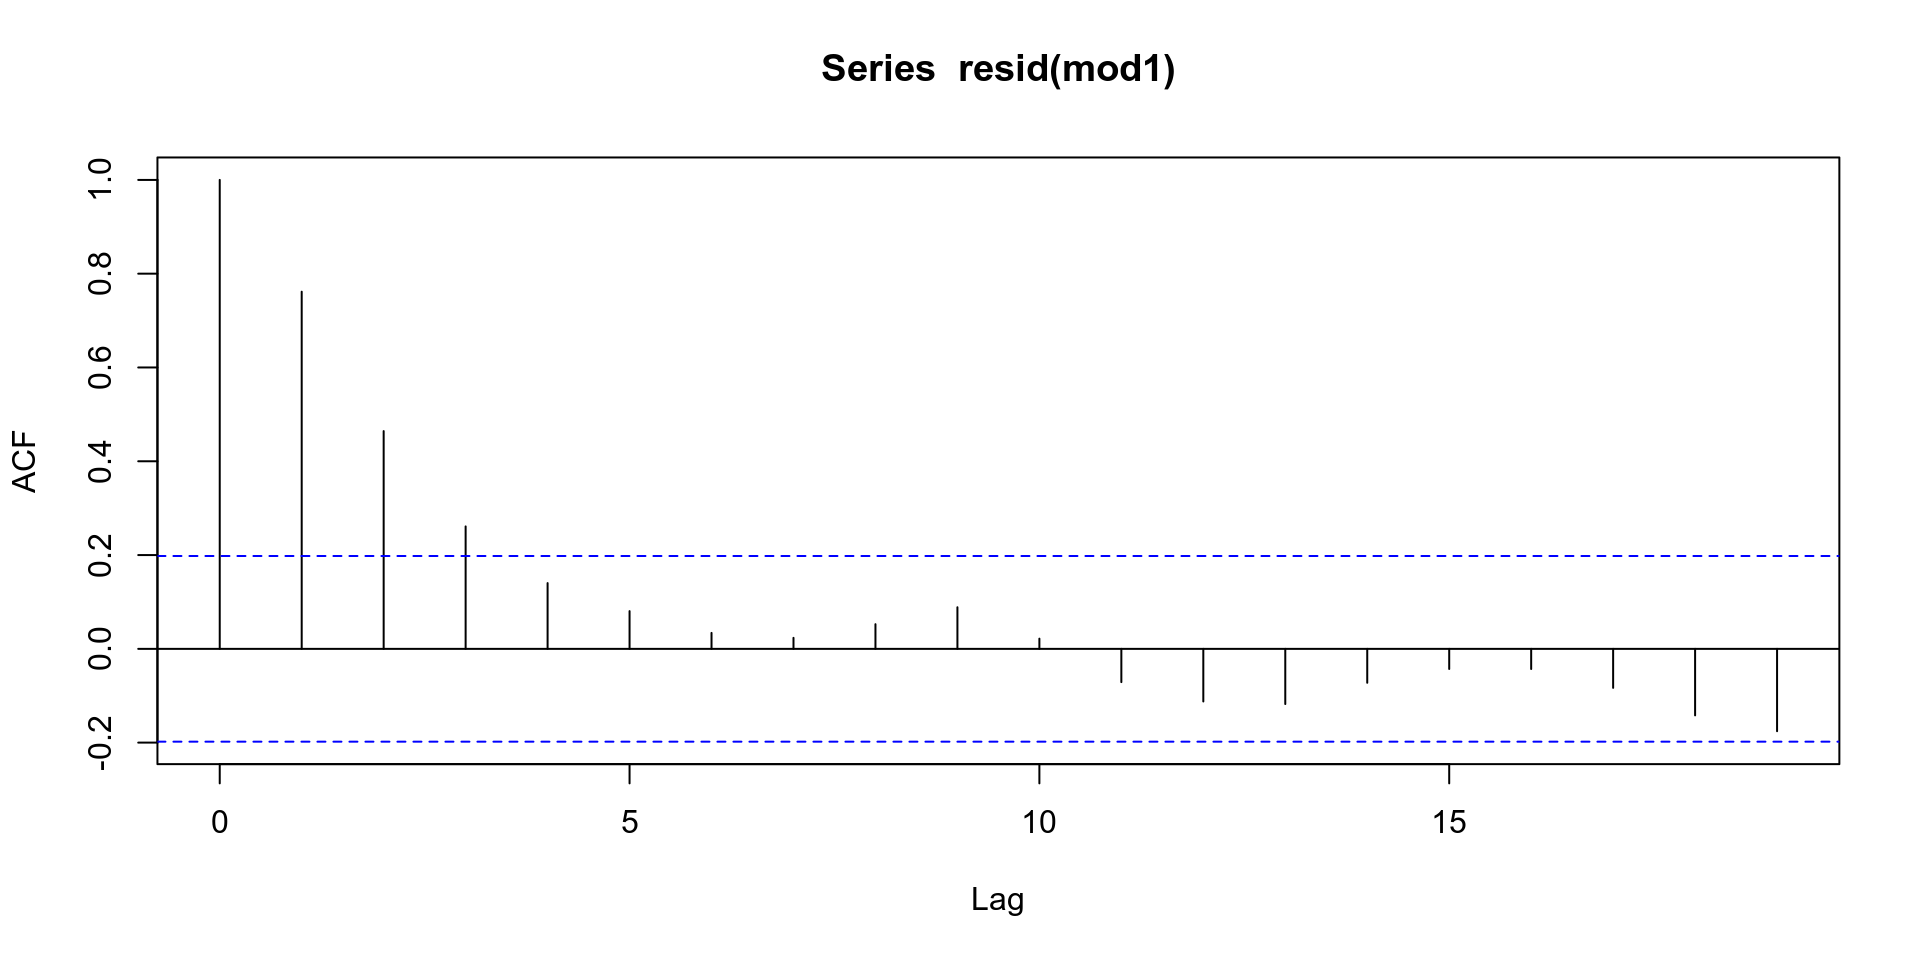
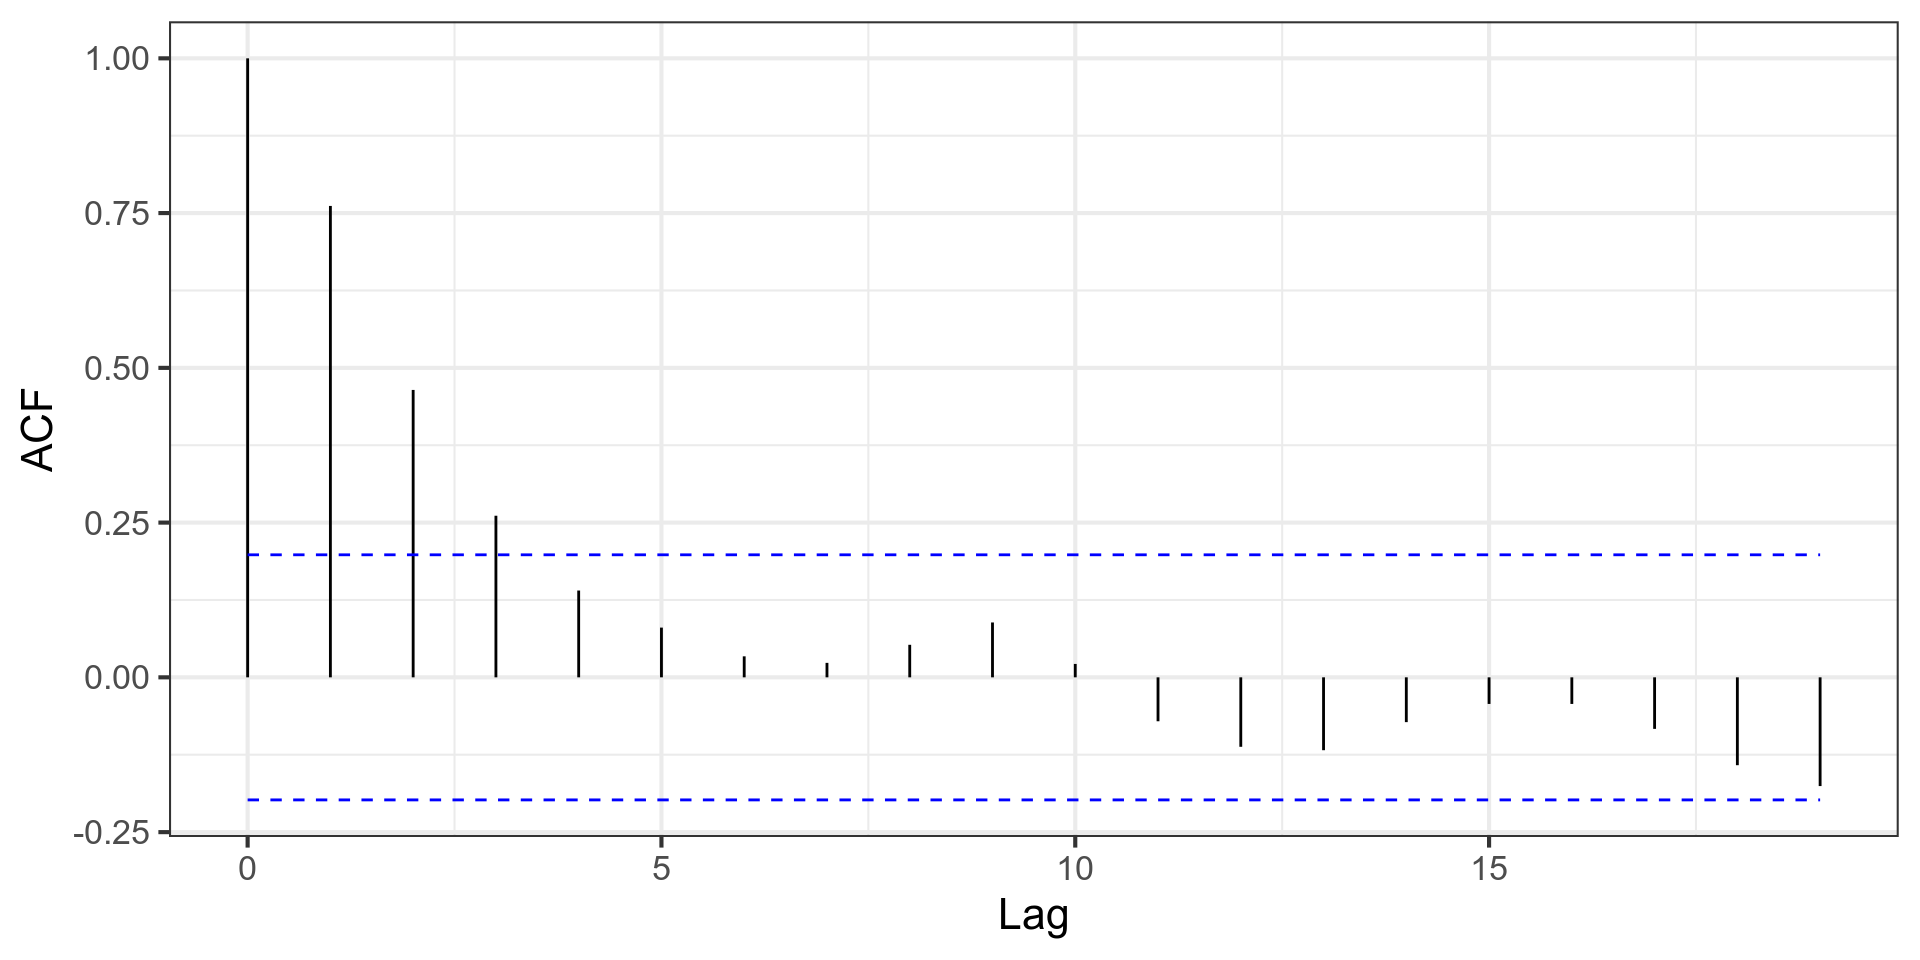
improves autocorrelation

diff --git a/spatial_temporal.html b/spatial_temporal.html
@@ -513,7 +513,9 @@ index        -0.02420111 0.004036108 -5.996151 3.545230e-08</code></pre>
 <p>-ve autocorrelation - ACF oscillates, exponential decline in magnitude</p>
 </div><div class="column" style="width:40%;">
 <div class="cell">
-<div class="sourceCode cell-code" id="cb7"><pre class="sourceCode numberSource r number-lines code-with-copy"><code class="sourceCode r"><span id="cb7-1"><a href="#cb7-1"></a><span class="fu">acf</span>(<span class="fu">resid</span>(mod1))</span></code><button title="Copy to Clipboard" class="code-copy-button"><i class="bi"></i></button></pre></div>
+<div class="sourceCode cell-code" id="cb7"><pre class="sourceCode numberSource r number-lines code-with-copy"><code class="sourceCode r"><span id="cb7-1"><a href="#cb7-1"></a><span class="fu">library</span>(ggfortify)</span>
+<span id="cb7-2"><a href="#cb7-2"></a><span class="fu">acf</span>(<span class="fu">resid</span>(mod1), <span class="at">plot =</span> <span class="cn">FALSE</span>) <span class="sc">|&gt;</span> </span>
+<span id="cb7-3"><a href="#cb7-3"></a>  <span class="fu">autoplot</span>()</span></code><button title="Copy to Clipboard" class="code-copy-button"><i class="bi"></i></button></pre></div>
 <div class="cell-output-display">
 <p><img data-src="spatial_temporal_files/figure-revealjs/acf-fig2-1.png" width="960"></p>
 </div>
@@ -531,7 +533,8 @@ index        -0.02420111 0.004036108 -5.996151 3.545230e-08</code></pre>
 <p>Autoregressive processes will have spikes in the PACF. Number of significant spikes indicate the order</p>
 </div><div class="column" style="width:45%;">
 <div class="cell">
-<div class="sourceCode cell-code" id="cb8"><pre class="sourceCode numberSource r number-lines code-with-copy"><code class="sourceCode r"><span id="cb8-1"><a href="#cb8-1"></a><span class="fu">pacf</span>(<span class="fu">resid</span>(mod1))</span></code><button title="Copy to Clipboard" class="code-copy-button"><i class="bi"></i></button></pre></div>
+<div class="sourceCode cell-code" id="cb8"><pre class="sourceCode numberSource r number-lines code-with-copy"><code class="sourceCode r"><span id="cb8-1"><a href="#cb8-1"></a><span class="fu">pacf</span>(<span class="fu">resid</span>(mod1), <span class="at">plot =</span> <span class="cn">FALSE</span>) <span class="sc">|&gt;</span> </span>
+<span id="cb8-2"><a href="#cb8-2"></a>  <span class="fu">autoplot</span>()</span></code><button title="Copy to Clipboard" class="code-copy-button"><i class="bi"></i></button></pre></div>
 <div class="cell-output-display">
 <p><img data-src="spatial_temporal_files/figure-revealjs/pacf-fig-1.png" width="960"></p>
 </div>
@@ -539,18 +542,59 @@ index        -0.02420111 0.004036108 -5.996151 3.545230e-08</code></pre>
 </div>
 </div>
 </section>
-<section id="identifiying-the-autocorrelation-process" class="slide level2">
-<h2>Identifiying the autocorrelation process</h2>
-<p>Non-stationary series have an ACF that remains significant at many lags, rather than quickly declining to zero.</p>
-<p>Autoregressive processes have an exponentially declining ACF and spikes in the first one or more lags of the PACF. Number of spikes indicates the order of the autoregression.</p>
-<p>Moving average processes have spikes in the first one or more lags of the ACF and an exponentially declining PACF. Number of spikes indicates the order of the moving average.</p>
-<p>Mixed (ARMA) processes typically show exponential declines in both the ACF and the PACF.</p>
+<section id="which-autocorrelation-process" class="slide level2">
+<h2>Which autocorrelation process?</h2>
+<h3 id="non-stationary-series">Non-stationary series</h3>
+<div class="cell">
+<div class="sourceCode cell-code" id="cb9"><pre class="sourceCode numberSource r number-lines code-with-copy"><code class="sourceCode r"><span id="cb9-1"><a href="#cb9-1"></a>x <span class="ot">&lt;-</span> <span class="fu">cumsum</span>(<span class="fu">rnorm</span>(<span class="dv">100</span>))</span></code><button title="Copy to Clipboard" class="code-copy-button"><i class="bi"></i></button></pre></div>
+
+</div>
+<img data-src="spatial_temporal_files/figure-revealjs/non_stationary-1.png" width="960" class="r-stretch"><p>ACF remains significant at many lags, rather than quickly declining to zero.</p>
+</section>
+<section id="section" class="slide level2">
+<h2></h2>
+<h3 id="autoregressive-processes">Autoregressive processes</h3>
+<p><span class="math inline">\(y_i = ρ_1y_i-1+ρ_2y_i-2+e_i\)</span></p>
+<div class="columns">
+<div class="column" style="width:50%;">
+<div class="cell">
+<div class="sourceCode cell-code" id="cb10"><pre class="sourceCode numberSource r number-lines code-with-copy"><code class="sourceCode r"><span id="cb10-1"><a href="#cb10-1"></a>x <span class="ot">&lt;-</span> <span class="fu">arima.sim</span>(<span class="fu">list</span>(<span class="at">ar =</span> .<span class="dv">7</span>), <span class="at">n =</span> <span class="dv">100</span>)</span></code><button title="Copy to Clipboard" class="code-copy-button"><i class="bi"></i></button></pre></div>
+<div class="cell-output-display">
+<p><img data-src="spatial_temporal_files/figure-revealjs/ar_pos_fig-1.png" width="960"></p>
+</div>
+</div>
+</div><div class="column" style="width:50%;">
+<div class="cell">
+<div class="sourceCode cell-code" id="cb11"><pre class="sourceCode numberSource r number-lines code-with-copy"><code class="sourceCode r"><span id="cb11-1"><a href="#cb11-1"></a>x <span class="ot">&lt;-</span> <span class="fu">arima.sim</span>(<span class="fu">list</span>(<span class="at">ar =</span> <span class="fu">c</span>(<span class="dv">1</span>, <span class="sc">-</span>.<span class="dv">5</span>)), <span class="at">n =</span> <span class="dv">100</span>)</span></code><button title="Copy to Clipboard" class="code-copy-button"><i class="bi"></i></button></pre></div>
+<div class="cell-output-display">
+<p><img data-src="spatial_temporal_files/figure-revealjs/ar_neg_fig-1.png" width="960"></p>
+</div>
+</div>
+</div>
+</div>
+<p>Exponentially declining ACF and spikes in the first one or more lags of the PACF. # spikes indicates the AR order</p>
+</section>
+<section id="section-1" class="slide level2">
+<h2></h2>
+<h3 id="moving-average-processes">Moving average processes</h3>
+<p><span class="math inline">\(w_t\stackrel{iid}{\sim}\mathcal{N}(0,\sigma^2_w)\)</span></p>
+<p><span class="math inline">\(x_t = \mu + w_t + \theta_1w_{t-1}\)</span></p>
+<div class="cell">
+<div class="sourceCode cell-code" id="cb12"><pre class="sourceCode numberSource r number-lines code-with-copy"><code class="sourceCode r"><span id="cb12-1"><a href="#cb12-1"></a>x <span class="ot">&lt;-</span> <span class="fu">arima.sim</span>(<span class="at">model =</span> <span class="fu">list</span>(<span class="at">ma =</span> <span class="fl">0.8</span>), <span class="at">n =</span> <span class="dv">100</span>)</span></code><button title="Copy to Clipboard" class="code-copy-button"><i class="bi"></i></button></pre></div>
+
+</div>
+<img data-src="spatial_temporal_files/figure-revealjs/ma-fig-1.png" width="960" class="r-stretch"><p>spikes in the first one or more lags of the ACF and an exponentially declining PACF. # spikes indicates the MA order</p>
+</section>
+<section id="section-2" class="slide level2">
+<h2></h2>
+<h3 id="mixed-arma-processes">Mixed (ARMA) processes</h3>
+<p>typically show exponential declines in both the ACF and the PACF.</p>
 </section>
 <section id="identifying-the-autocorrelation-process" class="slide level2">
 <h2>Identifying the autocorrelation process</h2>
 <p>Fit an autoregressive model</p>
 <div class="cell">
-<div class="sourceCode cell-code" id="cb9"><pre class="sourceCode numberSource r number-lines code-with-copy"><code class="sourceCode r"><span id="cb9-1"><a href="#cb9-1"></a><span class="fu">ar</span>(<span class="fu">resid</span>(mod1))</span></code><button title="Copy to Clipboard" class="code-copy-button"><i class="bi"></i></button></pre></div>
+<div class="sourceCode cell-code" id="cb13"><pre class="sourceCode numberSource r number-lines code-with-copy"><code class="sourceCode r"><span id="cb13-1"><a href="#cb13-1"></a><span class="fu">ar</span>(<span class="fu">resid</span>(mod1))</span></code><button title="Copy to Clipboard" class="code-copy-button"><i class="bi"></i></button></pre></div>
 <div class="cell-output cell-output-stdout">
 <pre><code>
 Call:
@@ -574,8 +618,8 @@ Order selected 2  sigma^2 estimated as  0.501</code></pre>
 <li><p>&gt; 2 Negative autocorrelation</p></li>
 </ul>
 <div class="cell">
-<div class="sourceCode cell-code" id="cb11"><pre class="sourceCode numberSource r number-lines code-with-copy"><code class="sourceCode r"><span id="cb11-1"><a href="#cb11-1"></a><span class="fu">library</span>(lmtest)</span>
-<span id="cb11-2"><a href="#cb11-2"></a><span class="fu">dwtest</span>(mod1)</span></code><button title="Copy to Clipboard" class="code-copy-button"><i class="bi"></i></button></pre></div>
+<div class="sourceCode cell-code" id="cb15"><pre class="sourceCode numberSource r number-lines code-with-copy"><code class="sourceCode r"><span id="cb15-1"><a href="#cb15-1"></a><span class="fu">library</span>(lmtest)</span>
+<span id="cb15-2"><a href="#cb15-2"></a><span class="fu">dwtest</span>(mod1)</span></code><button title="Copy to Clipboard" class="code-copy-button"><i class="bi"></i></button></pre></div>
 <div class="cell-output cell-output-stdout">
 <pre><code>
     Durbin-Watson test
@@ -589,14 +633,14 @@ alternative hypothesis: true autocorrelation is greater than 0</code></pre>
 <section id="gls" class="slide level2">
 <h2>gls</h2>
 <div class="cell">
-<div class="sourceCode cell-code" id="cb13"><pre class="sourceCode numberSource r number-lines code-with-copy"><code class="sourceCode r"><span id="cb13-1"><a href="#cb13-1"></a><span class="fu">library</span>(nlme)</span>
-<span id="cb13-2"><a href="#cb13-2"></a>fit.gls <span class="ot">&lt;-</span> <span class="fu">gls</span>(value <span class="sc">~</span> index, <span class="at">data =</span> LakeHuron_df)</span>
-<span id="cb13-3"><a href="#cb13-3"></a><span class="fu">summary</span>(fit.gls)<span class="sc">$</span>coef</span></code><button title="Copy to Clipboard" class="code-copy-button"><i class="bi"></i></button></pre></div>
+<div class="sourceCode cell-code" id="cb17"><pre class="sourceCode numberSource r number-lines code-with-copy"><code class="sourceCode r"><span id="cb17-1"><a href="#cb17-1"></a><span class="fu">library</span>(nlme)</span>
+<span id="cb17-2"><a href="#cb17-2"></a>fit.gls <span class="ot">&lt;-</span> <span class="fu">gls</span>(value <span class="sc">~</span> index, <span class="at">data =</span> LakeHuron_df)</span>
+<span id="cb17-3"><a href="#cb17-3"></a><span class="fu">summary</span>(fit.gls)<span class="sc">$</span>coef</span></code><button title="Copy to Clipboard" class="code-copy-button"><i class="bi"></i></button></pre></div>
 <div class="cell-output cell-output-stdout">
 <pre><code> (Intercept)        index 
 625.55491791  -0.02420111 </code></pre>
 </div>
-<div class="sourceCode cell-code" id="cb15"><pre class="sourceCode numberSource r number-lines code-with-copy"><code class="sourceCode r"><span id="cb15-1"><a href="#cb15-1"></a><span class="fu">summary</span>(mod1)<span class="sc">$</span>coef</span></code><button title="Copy to Clipboard" class="code-copy-button"><i class="bi"></i></button></pre></div>
+<div class="sourceCode cell-code" id="cb19"><pre class="sourceCode numberSource r number-lines code-with-copy"><code class="sourceCode r"><span id="cb19-1"><a href="#cb19-1"></a><span class="fu">summary</span>(mod1)<span class="sc">$</span>coef</span></code><button title="Copy to Clipboard" class="code-copy-button"><i class="bi"></i></button></pre></div>
 <div class="cell-output cell-output-stdout">
 <pre><code>                Estimate  Std. Error   t value     Pr(&gt;|t|)
 (Intercept) 625.55491791 7.764293095 80.568174 5.808677e-90
@@ -607,8 +651,8 @@ index        -0.02420111 0.004036108 -5.996151 3.545230e-08</code></pre>
 <section id="gls-with-corar1" class="slide level2">
 <h2>gls with corAR1</h2>
 <div class="cell">
-<div class="sourceCode cell-code" id="cb17"><pre class="sourceCode numberSource r number-lines code-with-copy"><code class="sourceCode r"><span id="cb17-1"><a href="#cb17-1"></a>fit2.gls<span class="ot">&lt;-</span><span class="fu">gls</span>(value <span class="sc">~</span> index, <span class="at">data =</span> LakeHuron_df, <span class="at">corr=</span><span class="fu">corAR1</span>())</span>
-<span id="cb17-2"><a href="#cb17-2"></a><span class="fu">summary</span>(fit2.gls)</span></code><button title="Copy to Clipboard" class="code-copy-button"><i class="bi"></i></button></pre></div>
+<div class="sourceCode cell-code" id="cb21"><pre class="sourceCode numberSource r number-lines code-with-copy"><code class="sourceCode r"><span id="cb21-1"><a href="#cb21-1"></a>fit2.gls<span class="ot">&lt;-</span><span class="fu">gls</span>(value <span class="sc">~</span> index, <span class="at">data =</span> LakeHuron_df, <span class="at">corr=</span><span class="fu">corAR1</span>())</span>
+<span id="cb21-2"><a href="#cb21-2"></a><span class="fu">summary</span>(fit2.gls)</span></code><button title="Copy to Clipboard" class="code-copy-button"><i class="bi"></i></button></pre></div>
 <div class="cell-output cell-output-stdout">
 <pre><code>Generalized least squares fit by REML
   Model: value ~ index 
@@ -643,7 +687,7 @@ Degrees of freedom: 98 total; 96 residual</code></pre>
 <section id="anova-to-compare-models" class="slide level2">
 <h2>anova to compare models</h2>
 <div class="cell">
-<div class="sourceCode cell-code" id="cb19"><pre class="sourceCode numberSource r number-lines code-with-copy"><code class="sourceCode r"><span id="cb19-1"><a href="#cb19-1"></a><span class="fu">anova</span>(fit.gls,fit2.gls)</span></code><button title="Copy to Clipboard" class="code-copy-button"><i class="bi"></i></button></pre></div>
+<div class="sourceCode cell-code" id="cb23"><pre class="sourceCode numberSource r number-lines code-with-copy"><code class="sourceCode r"><span id="cb23-1"><a href="#cb23-1"></a><span class="fu">anova</span>(fit.gls,fit2.gls)</span></code><button title="Copy to Clipboard" class="code-copy-button"><i class="bi"></i></button></pre></div>
 <div class="cell-output cell-output-stdout">
 <pre><code>         Model df      AIC      BIC    logLik   Test  L.Ratio p-value
 fit.gls      1  3 317.8056 325.4986 -155.9028                        
@@ -686,12 +730,12 @@ fit2.gls     2  4 225.8304 236.0878 -108.9152 1 vs 2 93.97515  &lt;.0001</code><
 <div class="cell">
 <details>
 <summary>Code</summary>
-<div class="sourceCode cell-code" id="cb23"><pre class="sourceCode numberSource r number-lines code-with-copy"><code class="sourceCode r"><span id="cb23-1"><a href="#cb23-1"></a><span class="fu">library</span>(gstat)</span>
-<span id="cb23-2"><a href="#cb23-2"></a><span class="fu">data</span>(meuse, <span class="at">package =</span> <span class="st">"sp"</span>)</span>
-<span id="cb23-3"><a href="#cb23-3"></a><span class="fu">ggplot</span>(meuse, <span class="fu">aes</span>(<span class="at">x =</span> x, <span class="at">y =</span> y, <span class="at">size =</span> zinc)) <span class="sc">+</span></span>
-<span id="cb23-4"><a href="#cb23-4"></a>  <span class="fu">geom_point</span>() <span class="sc">+</span></span>
-<span id="cb23-5"><a href="#cb23-5"></a>  <span class="fu">scale_size_area</span>() <span class="sc">+</span> </span>
-<span id="cb23-6"><a href="#cb23-6"></a>  <span class="fu">labs</span>(<span class="at">size =</span> <span class="st">"Zinc ppm"</span>, <span class="at">title =</span> <span class="st">"Zinc concentration on Meuse floodplain"</span>)</span></code><button title="Copy to Clipboard" class="code-copy-button"><i class="bi"></i></button></pre></div>
+<div class="sourceCode cell-code" id="cb27"><pre class="sourceCode numberSource r number-lines code-with-copy"><code class="sourceCode r"><span id="cb27-1"><a href="#cb27-1"></a><span class="fu">library</span>(gstat)</span>
+<span id="cb27-2"><a href="#cb27-2"></a><span class="fu">data</span>(meuse, <span class="at">package =</span> <span class="st">"sp"</span>)</span>
+<span id="cb27-3"><a href="#cb27-3"></a><span class="fu">ggplot</span>(meuse, <span class="fu">aes</span>(<span class="at">x =</span> x, <span class="at">y =</span> y, <span class="at">size =</span> zinc)) <span class="sc">+</span></span>
+<span id="cb27-4"><a href="#cb27-4"></a>  <span class="fu">geom_point</span>() <span class="sc">+</span></span>
+<span id="cb27-5"><a href="#cb27-5"></a>  <span class="fu">scale_size_area</span>() <span class="sc">+</span> </span>
+<span id="cb27-6"><a href="#cb27-6"></a>  <span class="fu">labs</span>(<span class="at">size =</span> <span class="st">"Zinc ppm"</span>, <span class="at">title =</span> <span class="st">"Zinc concentration on Meuse floodplain"</span>)</span></code><button title="Copy to Clipboard" class="code-copy-button"><i class="bi"></i></button></pre></div>
 </details>
 
 </div>
@@ -705,8 +749,8 @@ fit2.gls     2  4 225.8304 236.0878 -108.9152 1 vs 2 93.97515  &lt;.0001</code><
 <h2>The variogram</h2>
 <p>Variogram of zinc concentrations on Meuse floodplain</p>
 <div class="cell">
-<div class="sourceCode cell-code" id="cb24"><pre class="sourceCode numberSource r number-lines code-with-copy"><code class="sourceCode r"><span id="cb24-1"><a href="#cb24-1"></a>vg <span class="ot">&lt;-</span> <span class="fu">variogram</span>(zinc <span class="sc">~</span> <span class="dv">1</span>, <span class="sc">~</span> x <span class="sc">+</span> y, <span class="at">data =</span> meuse)</span>
-<span id="cb24-2"><a href="#cb24-2"></a><span class="fu">plot</span>(vg, <span class="at">pch =</span> <span class="dv">16</span>, <span class="at">col =</span> <span class="dv">2</span>)</span></code><button title="Copy to Clipboard" class="code-copy-button"><i class="bi"></i></button></pre></div>
+<div class="sourceCode cell-code" id="cb28"><pre class="sourceCode numberSource r number-lines code-with-copy"><code class="sourceCode r"><span id="cb28-1"><a href="#cb28-1"></a>vg <span class="ot">&lt;-</span> <span class="fu">variogram</span>(zinc <span class="sc">~</span> <span class="dv">1</span>, <span class="sc">~</span> x <span class="sc">+</span> y, <span class="at">data =</span> meuse)</span>
+<span id="cb28-2"><a href="#cb28-2"></a><span class="fu">plot</span>(vg, <span class="at">pch =</span> <span class="dv">16</span>, <span class="at">col =</span> <span class="dv">2</span>)</span></code><button title="Copy to Clipboard" class="code-copy-button"><i class="bi"></i></button></pre></div>
 
 </div>
 <img data-src="spatial_temporal_files/figure-revealjs/variogram-fig-1.png" width="960" class="r-stretch"><p>Sill, range, nugget</p>
@@ -725,11 +769,11 @@ fit2.gls     2  4 225.8304 236.0878 -108.9152 1 vs 2 93.97515  &lt;.0001</code><
 <p>Different shapes</p>
 </div><div class="column" style="width:60%;">
 <div class="cell">
-<div class="sourceCode cell-code" id="cb25"><pre class="sourceCode numberSource r number-lines code-with-copy"><code class="sourceCode r"><span id="cb25-1"><a href="#cb25-1"></a>vg <span class="ot">&lt;-</span> <span class="fu">variogram</span>(zinc <span class="sc">~</span> <span class="dv">1</span>, <span class="sc">~</span> x <span class="sc">+</span> y, <span class="at">data =</span> meuse)</span>
-<span id="cb25-2"><a href="#cb25-2"></a>fit.vg <span class="ot">&lt;-</span> <span class="fu">fit.variogram</span>(</span>
-<span id="cb25-3"><a href="#cb25-3"></a>  <span class="at">object =</span> vg, </span>
-<span id="cb25-4"><a href="#cb25-4"></a>  <span class="at">model =</span> <span class="fu">vgm</span>(<span class="at">psill =</span> <span class="dv">100000</span>, <span class="st">"Sph"</span>, <span class="at">range =</span> <span class="dv">900</span>, <span class="at">nugget =</span> <span class="dv">30000</span>))</span>
-<span id="cb25-5"><a href="#cb25-5"></a><span class="fu">plot</span>(vg, <span class="at">model =</span> fit.vg, <span class="at">pch =</span> <span class="dv">16</span>, <span class="at">col =</span> <span class="dv">2</span>)</span></code><button title="Copy to Clipboard" class="code-copy-button"><i class="bi"></i></button></pre></div>
+<div class="sourceCode cell-code" id="cb29"><pre class="sourceCode numberSource r number-lines code-with-copy"><code class="sourceCode r"><span id="cb29-1"><a href="#cb29-1"></a>vg <span class="ot">&lt;-</span> <span class="fu">variogram</span>(zinc <span class="sc">~</span> <span class="dv">1</span>, <span class="sc">~</span> x <span class="sc">+</span> y, <span class="at">data =</span> meuse)</span>
+<span id="cb29-2"><a href="#cb29-2"></a>fit.vg <span class="ot">&lt;-</span> <span class="fu">fit.variogram</span>(</span>
+<span id="cb29-3"><a href="#cb29-3"></a>  <span class="at">object =</span> vg, </span>
+<span id="cb29-4"><a href="#cb29-4"></a>  <span class="at">model =</span> <span class="fu">vgm</span>(<span class="at">psill =</span> <span class="dv">100000</span>, <span class="st">"Sph"</span>, <span class="at">range =</span> <span class="dv">900</span>, <span class="at">nugget =</span> <span class="dv">30000</span>))</span>
+<span id="cb29-5"><a href="#cb29-5"></a><span class="fu">plot</span>(vg, <span class="at">model =</span> fit.vg, <span class="at">pch =</span> <span class="dv">16</span>, <span class="at">col =</span> <span class="dv">2</span>)</span></code><button title="Copy to Clipboard" class="code-copy-button"><i class="bi"></i></button></pre></div>
 <div class="cell-output-display">
 <p><img data-src="spatial_temporal_files/figure-revealjs/variogram-model-1.png" width="960"></p>
 </div>
@@ -737,6 +781,10 @@ fit2.gls     2  4 225.8304 236.0878 -108.9152 1 vs 2 93.97515  &lt;.0001</code><
 </div>
 </div>
 </section>
+<section id="variogram-shapes" class="slide level2">
+<h2>Variogram shapes</h2>
+
+<img data-src="spatial_temporal_files/figure-revealjs/fields-fig-1.png" width="1152" class="r-stretch"></section>
 <section id="glslme-and-correlation-structures" class="slide level2">
 <h2>gls/lme and correlation structures</h2>
 <table>
